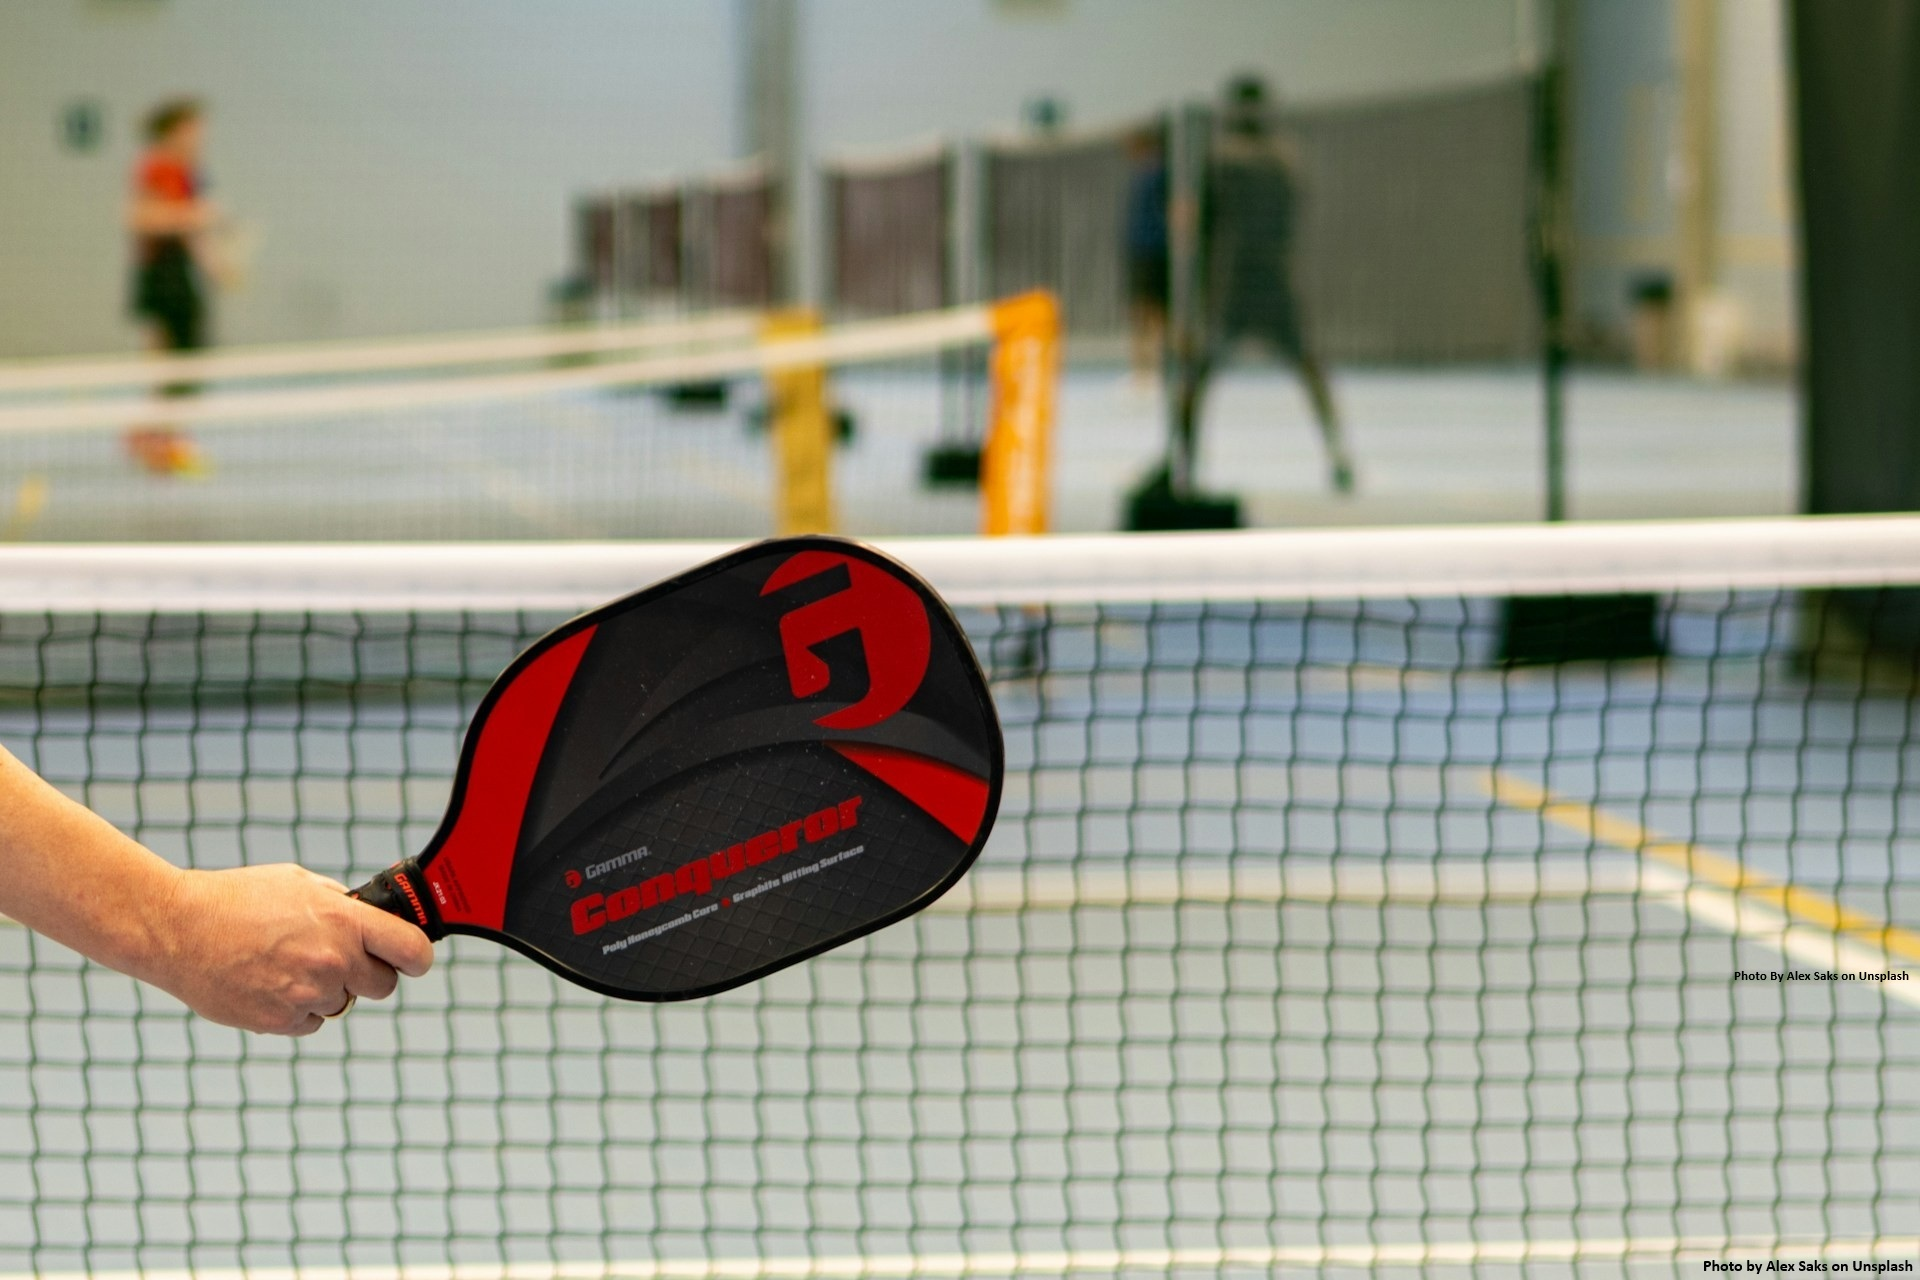
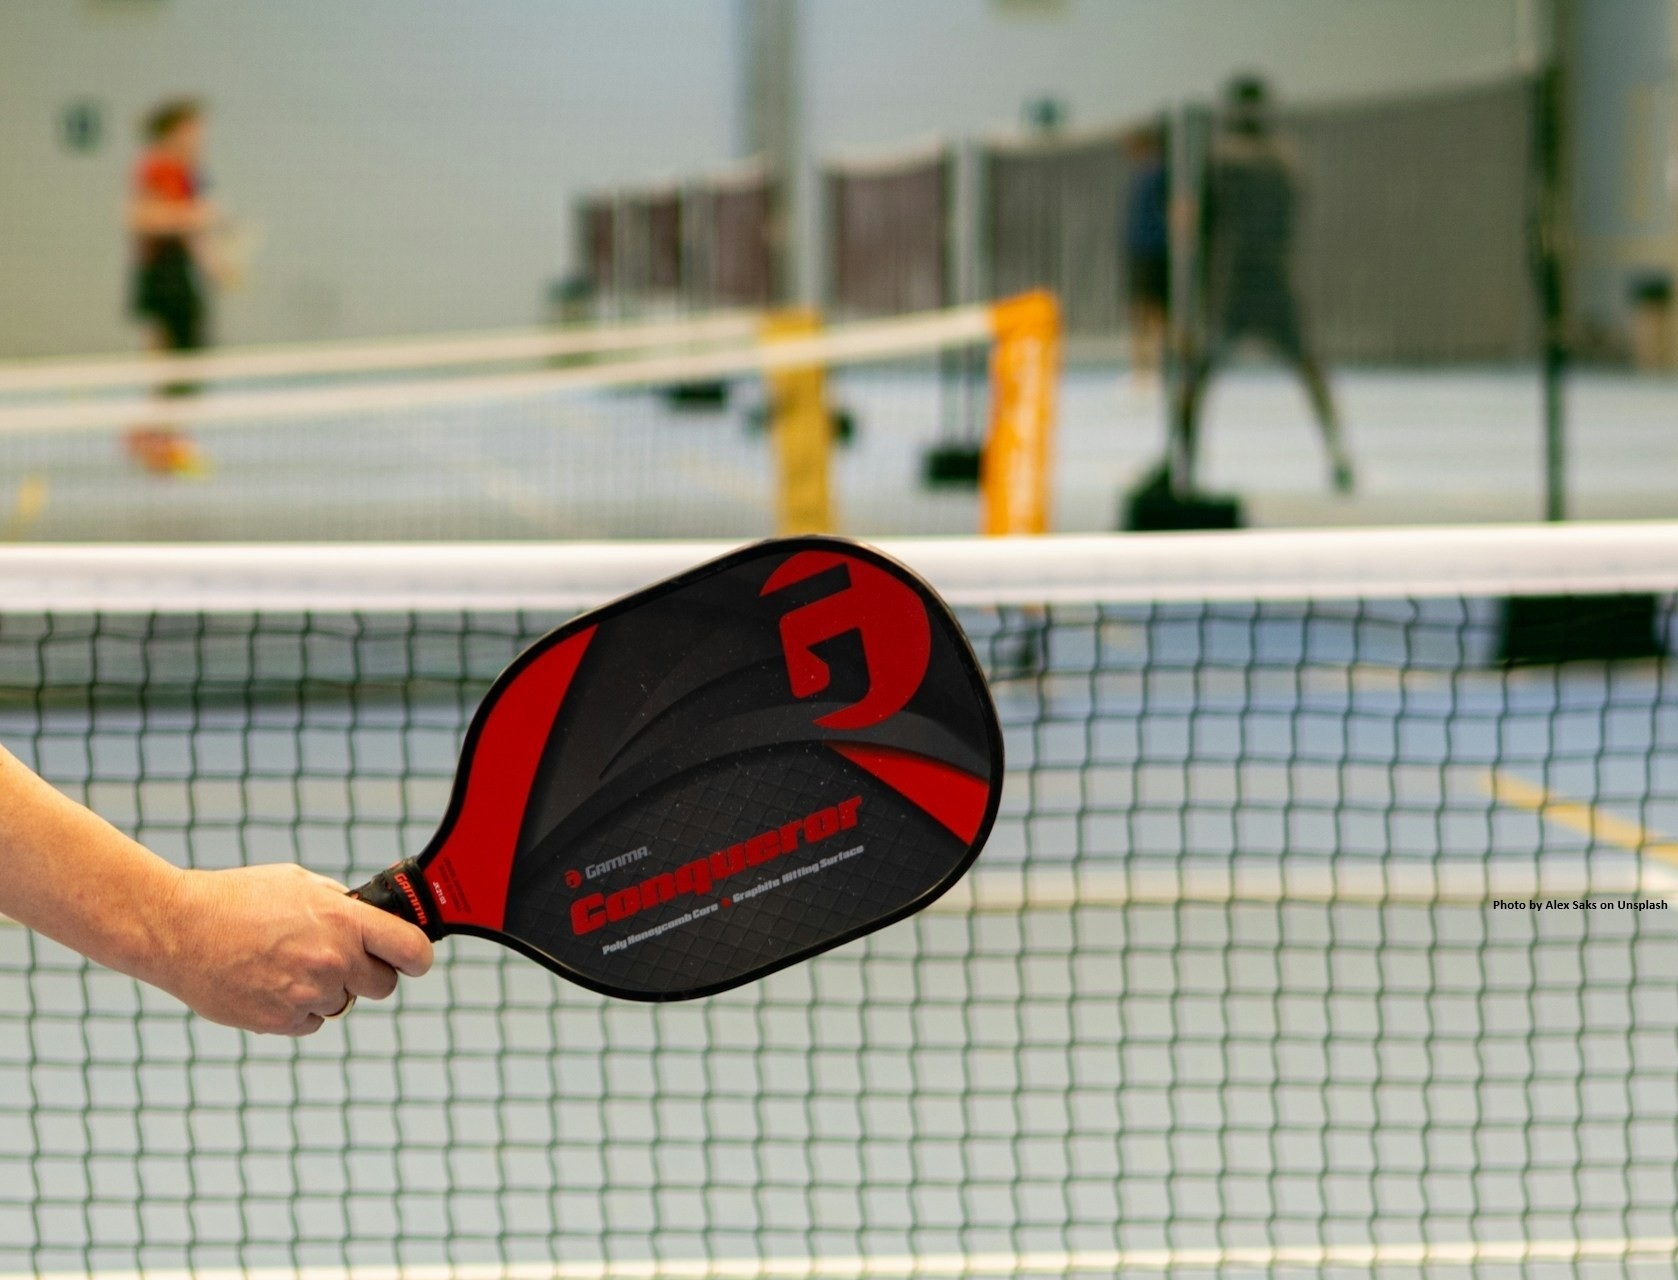
Made scrolling 30s and changed shape of photo for consistency on mobile

diff --git a/site.css b/site.css
@@ -411,7 +411,7 @@ td {
       white-space: nowrap !important;
       width: max-content !important;    /* Forces text strings to expand outwards into a long fluid line */
       /* Completely overrides desktop transitions with a hardware-accelerated 10s mobile cycle */
-      animation: mobileTickerLoop 25s linear infinite !important; 
+      animation: mobileTickerLoop 30s linear infinite !important; 
       will-change: transform !important;
     }
 
